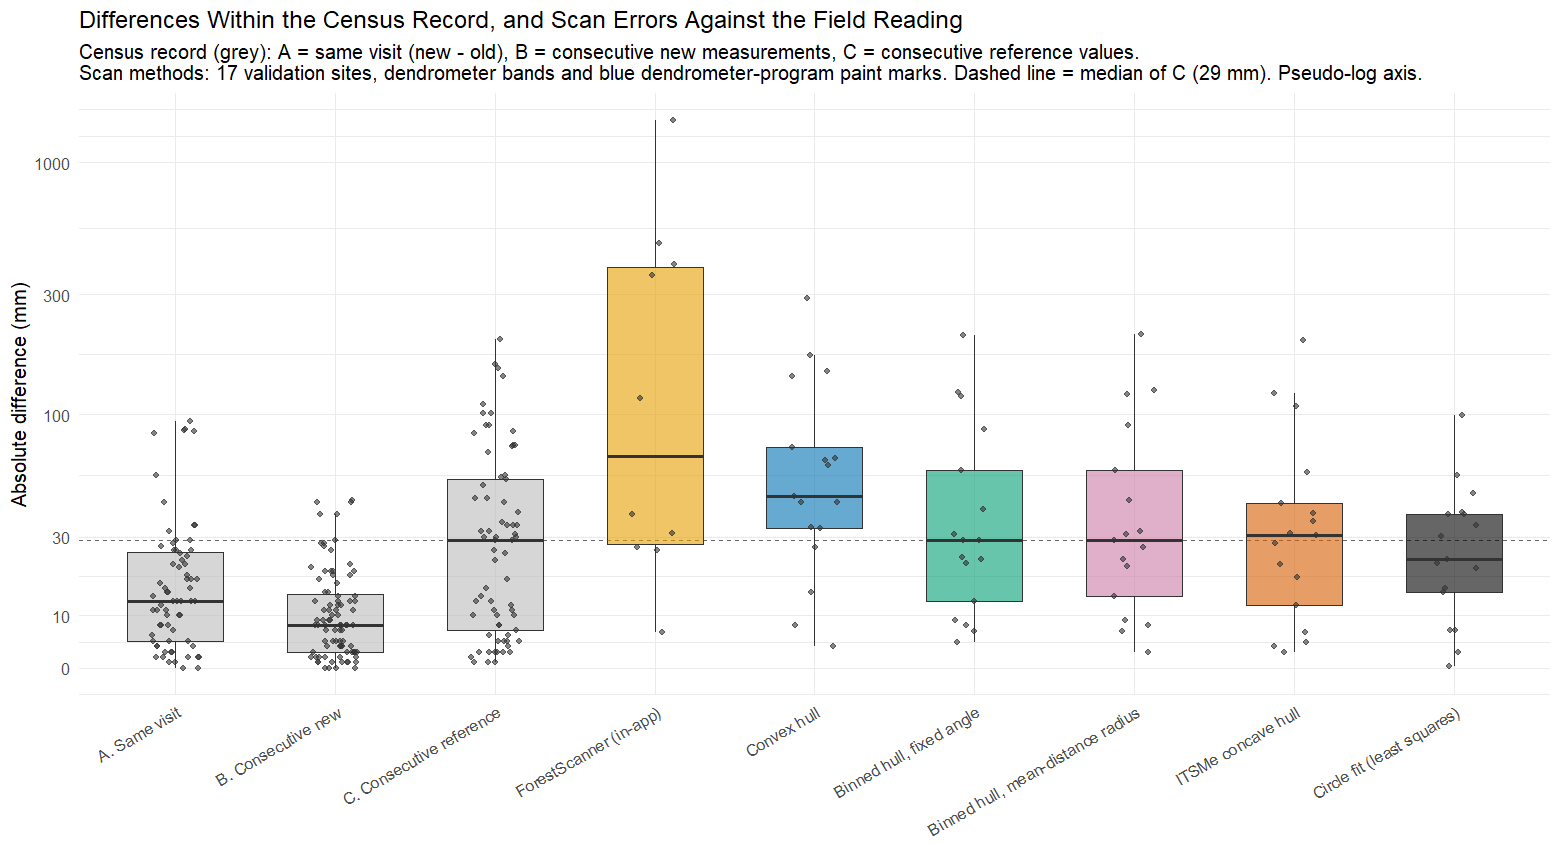
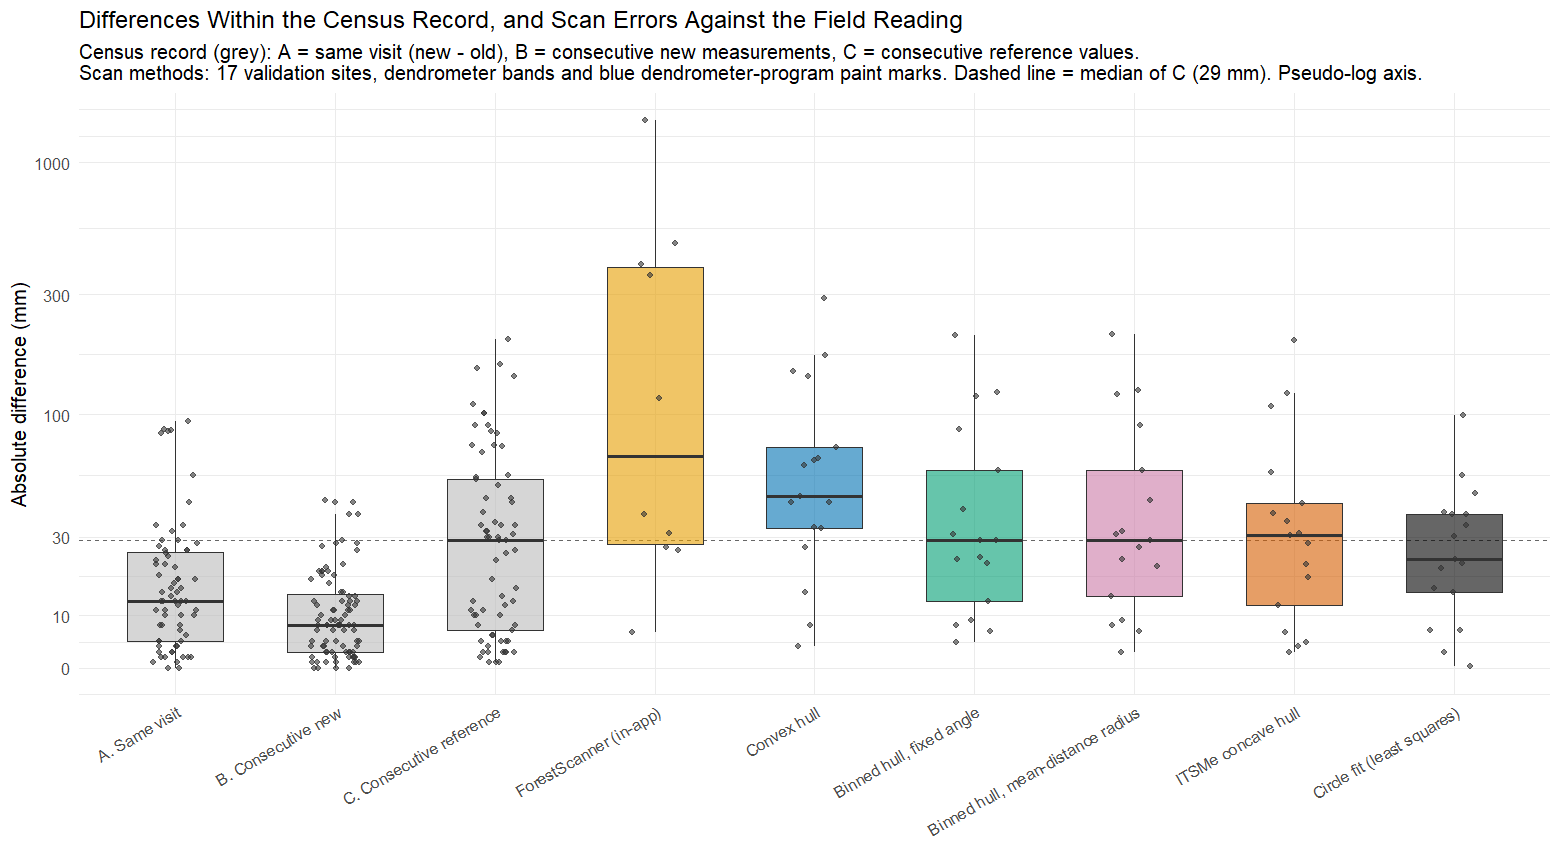
specify measurement colors

diff --git a/scripts/Step07_Analysis/README.md b/scripts/Step07_Analysis/README.md
@@ -12,7 +12,7 @@ The scripts, and what each one answers:
 - plot_error_by_size.R <src>: signed % error of every method, by group. results\error_by_size_<src>_pertree.csv, results\plots\error_by_size_<src>_boxplot.png
 - plot_by_method.R <src>: the figures above split out, one panel per method, every method. results\plots\by_method_<src>_{scatter,error,error_mm,boxplot,boxplot_mm,bland_altman}.png
 - compare_fig_notes.R <src>: at the source's buttressed (DAB) paint sites, error for trees with a fig noted in the BCI census notes vs. trees without, in mm and %. results\fig_notes_<src>_{pertree,summary}.csv, results\plots\fig_notes_<src>_error.png. Also the signed % error bar chart without the fig paint sites, the five cloud methods, with the mm error on each bar. results\plots\field_accuracy_no_fig_sites_<src>_error.png
-- compare_field_record.R <src>: how much the census's own paint-mark diameters differ from each other (same visit, consecutive new measurements, consecutive reference values), next to each method's error against the field reading. Raw differences, no growth correction, all marks together. Values left out are listed with their reason. Also, per tree, the spread of every census value at the current paint mark next to the five cloud methods. results\field_record_{pairs,excluded}.csv, results\field_record_{summary,per_tree}_<src>.csv, results\plots\field_record_{vs_scan,per_tree}_<src>.png
+- compare_field_record.R: how much the census's own paint-mark diameters differ from each other (same visit, consecutive new measurements, consecutive reference values), next to each method's error against the field reading. Raw differences, no growth correction, all marks together. Values left out are listed with their reason. Also, per tree, the spread of every census value at the current paint mark next to the five cloud methods. Blue only: the census record is the dendrometer program's, so it is the history of the blue mark. There is no history for the red mark, so the script refuses ForestGeoPaint. results\field_record_{pairs,excluded}.csv, results\field_record_{summary,per_tree}_DendroPaint.csv, results\plots\field_record_{vs_scan,per_tree}_DendroPaint.png
 - compare_paint_sources.R: the two sources side by side. MAE per method, red against blue, at each source's paint sites, and for trees with both marks every scan estimate against both field values and the difference between the two field values. results\paint_sources_{mae,both_trees}.csv, results\plots\paint_sources_mae.png
 - bin_fixed_angle_demo.R: the fixed-angle binned-hull diameter at every processed site, not just the validated ones. results\bin_fixed_angle_demo_all_sites.{csv,png}
 
@@ -31,8 +31,7 @@ Steps:
     Rscript scripts/Step07_Analysis/plot_by_method.R          DendroPaint
     Rscript scripts/Step07_Analysis/compare_fig_notes.R       ForestGeoPaint
     Rscript scripts/Step07_Analysis/compare_fig_notes.R       DendroPaint
-    Rscript scripts/Step07_Analysis/compare_field_record.R    ForestGeoPaint
-    Rscript scripts/Step07_Analysis/compare_field_record.R    DendroPaint
+    Rscript scripts/Step07_Analysis/compare_field_record.R
     Rscript scripts/Step07_Analysis/compare_paint_sources.R
     Rscript scripts/Step07_Analysis/bin_fixed_angle_demo.R
 

diff --git a/README.md b/README.md
@@ -326,7 +326,7 @@ How the comparisons are set up:
 - **One field value is in question.** Tree 3853's red value (967 mm) sits about 360 mm under every scan method and under its own blue value (1330 mm). It isn't a typo, but it may be a bad measurement. It stays in the headline numbers, and every summary has a row without it.
 - **`compare_paint_sources.R`** puts the two sources side by side. It gives each method's error at the red marks and at the blue marks, and for the trees with both marks it compares every estimate against both field values.
 - **`compare_fig_notes.R`** compares the buttressed paint sites on trees with a fig noted in the census notes against those without, and redraws the main error chart without the fig paint sites. It was added after the pattern was seen, so it is exploratory.
-- **`compare_field_record.R`** shows how much the census's own paint-mark diameters differ from each other, next to each method's error.
+- **`compare_field_record.R`** shows how much the census's own paint-mark diameters differ from each other, next to each method's error. It runs for the blue marks only. The census record is the dendrometer program's, so it is the blue mark's history, and there is no history for the red mark.
 - **ForestScanner's errors are much larger than the cloud methods'.** Where they share an axis, the axis is set by the cloud methods. A ForestScanner value past it is drawn at the edge, and its real value is printed on the bar or in the caption.
 
 Watch the `[Python vs R cross-check]` lines `compare_hull_methods.R` prints — a convex hull is deterministic, so the hull and circle-fit twins should agree to **0.000 mm**. The ITSMe line can read up to about 0.1 mm, since both are stored in tenths of a mm and the port rounds an occasional point the other way. Anything larger is a bug, not a method difference.
